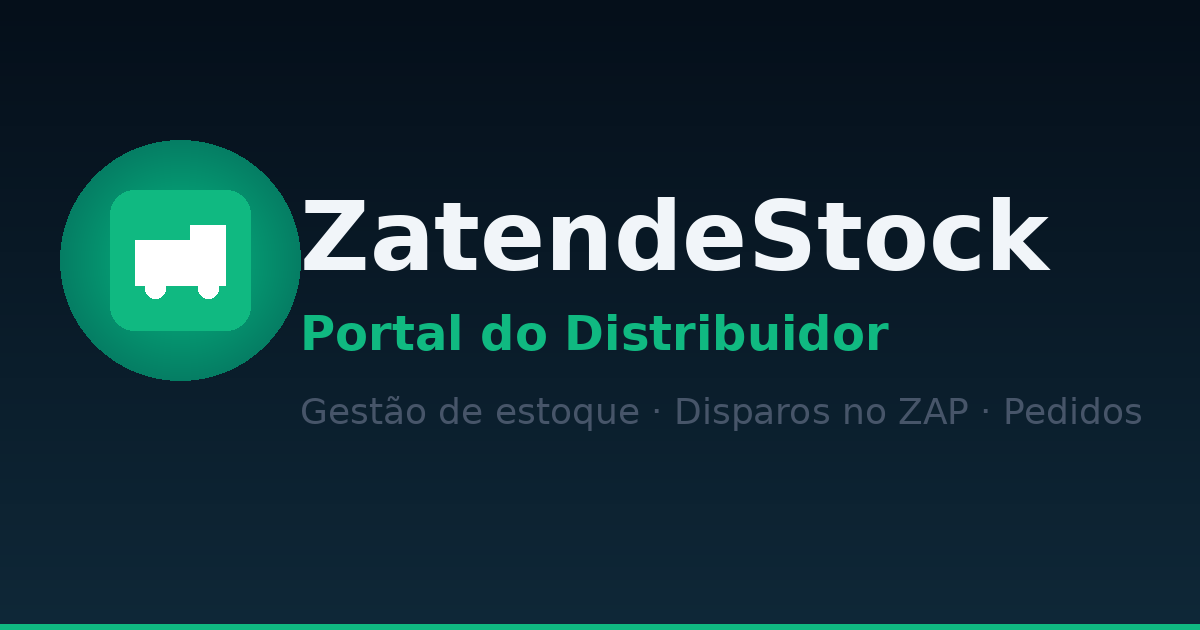
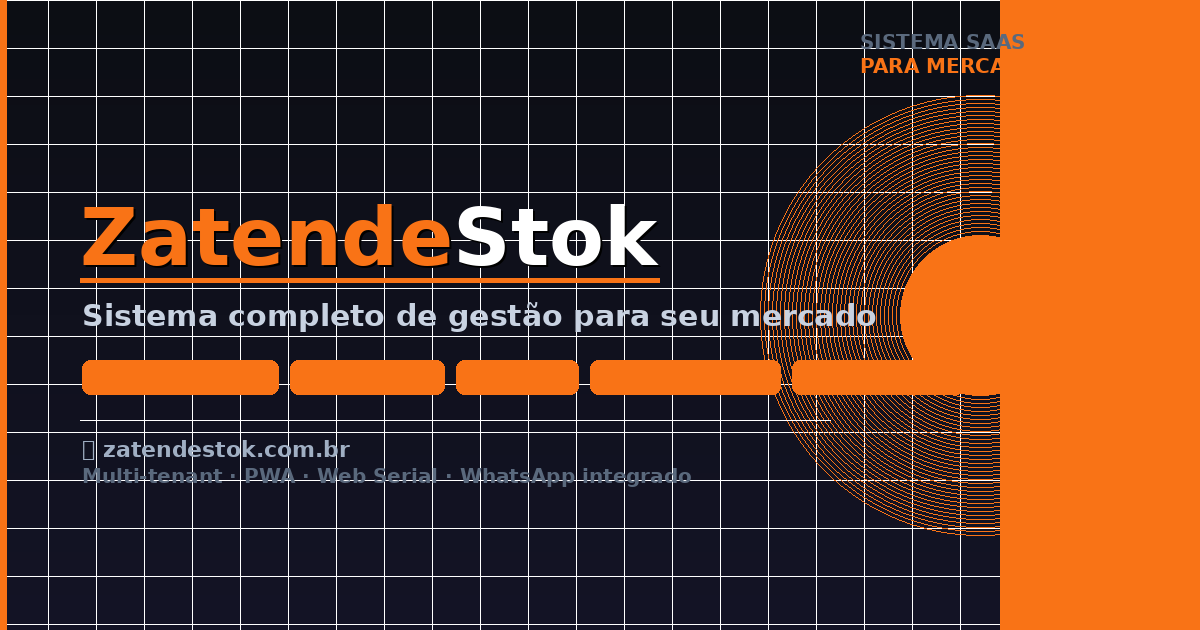
feat: nova arte OG image + meta tags prod (zatendestok.com.br) + URLs netlify→prod + manifest ZatendeStok

diff --git a/src/pages/Guia.jsx b/src/pages/Guia.jsx
@@ -133,14 +133,14 @@ export default function Guia() {
                 Caixa, estoque, validade, promoções e fidelidade — tudo em um só lugar
               </div>
               <div style={{ marginTop: 12, display: 'flex', flexWrap: 'wrap', gap: 8 }}>
-                <Badge color={ORANGE}>🌐 zatendestock.netlify.app/login</Badge>
+                <Badge color={ORANGE}>🌐 zatendestok.com.br/login</Badge>
                 <Badge color="#94a3b8">Usuário: admin · Senha: 1234</Badge>
               </div>
             </div>
 
             <Section title="1. Primeiro Acesso" subtitle="Leva menos de 2 minutos" color={ORANGE}>
               <Step n="1" icon="🌐" title="Abra o link no celular ou PC"
-                desc="Acesse zatendestock.netlify.app. No celular, clique em 'Adicionar à tela inicial' para instalar como app (sem precisar de loja de apps)."
+                desc="Acesse zatendestok.com.br. No celular, clique em 'Adicionar à tela inicial' para instalar como app (sem precisar de loja de apps)."
                 tip="Chrome/Edge no Android: menu ⋮ → 'Adicionar à tela inicial'" />
               <Step n="2" icon="🔐" title='Clique em "Acesso ao sistema"'
                 desc='Na tela inicial, clique no botão 🔐 Acesso ao sistema. Digite usuário e senha. Para a demo: admin / 1234.'
@@ -208,14 +208,14 @@ export default function Guia() {
                 Controle lotes, publique ofertas e gerencie pedidos dos mercados via WhatsApp
               </div>
               <div style={{ marginTop: 12, display: 'flex', flexWrap: 'wrap', gap: 8 }}>
-                <Badge color={GREEN}>🌐 zatendestock.netlify.app/fornecedor</Badge>
+                <Badge color={GREEN}>🌐 zatendestok.com.br/fornecedor</Badge>
                 <Badge color="#94a3b8">Usuário e senha fornecidos pelo administrador</Badge>
               </div>
             </div>
 
             <Section title="1. Primeiro Acesso" subtitle="Configure em 5 minutos" color={GREEN}>
               <Step n="1" icon="🌐" title="Abra o portal do distribuidor"
-                desc="Acesse zatendestock.netlify.app/fornecedor. Instale como app no celular para acessar mais rápido."
+                desc="Acesse zatendestok.com.br/fornecedor. Instale como app no celular para acessar mais rápido."
                 tip="O portal é 100% separado do portal do mercado — tenha os dois abertos em abas diferentes" />
               <Step n="2" icon="🔐" title="Faça login"
                 desc="Use as credenciais fornecidas pelo administrador ZatendeStok. Após o login você vê o dashboard FIFO." />

diff --git a/index.html b/index.html
@@ -5,17 +5,22 @@
     <meta name="viewport" content="width=device-width, initial-scale=1.0, viewport-fit=cover" />
     <meta name="apple-mobile-web-app-status-bar-style" content="black-translucent" />
     <link rel="icon" type="image/svg+xml" href="/icon.svg" />
-    <title>ZatendeStok – Portal do Distribuidor</title>
+    <title>ZatendeStok – Sistema de Gestão para Mercados</title>
 
     <!-- Open Graph / WhatsApp preview -->
     <meta property="og:type"         content="website" />
-    <meta property="og:url"          content="https://zatendestock.netlify.app/" />
-    <meta property="og:title"        content="ZatendeStok – Ofertas do Distribuidor" />
-    <meta property="og:description"  content="Confira as ofertas exclusivas do seu distribuidor e faça pedidos direto pelo celular." />
-    <meta property="og:image"        content="https://zatendestock.netlify.app/og-image.png" />
+    <meta property="og:url"          content="https://zatendestok.com.br/" />
+    <meta property="og:site_name"    content="ZatendeStok" />
+    <meta property="og:title"        content="ZatendeStok – Sistema de Gestão para Mercados" />
+    <meta property="og:description"  content="PDV, estoque, fiado, promoções e etiquetas em um só lugar. Simples, rápido e funciona offline. Experimente grátis." />
+    <meta property="og:image"        content="https://zatendestok.com.br/og-image.png" />
     <meta property="og:image:width"  content="1200" />
     <meta property="og:image:height" content="630" />
+    <meta property="og:image:alt"    content="ZatendeStok – Sistema completo de gestão para mercados" />
     <meta name="twitter:card"        content="summary_large_image" />
+    <meta name="twitter:title"       content="ZatendeStok – Sistema de Gestão para Mercados" />
+    <meta name="twitter:description" content="PDV, estoque, fiado, promoções e etiquetas em um só lugar." />
+    <meta name="description"         content="ZatendeStok: sistema completo de gestão para mercados. PDV, estoque, fiado, promoções, etiquetas. Simples, rápido, funciona offline." />
 
     <!-- PWA: instala como app no Windows/Android/iOS -->
     <link rel="manifest" href="/manifest.json" />

diff --git a/src/pages/Fornecedor.jsx b/src/pages/Fornecedor.jsx
@@ -31,9 +31,9 @@ function ofertasUrl() {
   try {
     const s = JSON.parse(localStorage.getItem('cp_session_v1') || '{}')
     const id = s.id || 'mega'
-    return `https://zatendestock.netlify.app/ofertas?s=${id}`
+    return `https://zatendestok.com.br/ofertas?s=${id}`
   } catch {
-    return 'https://zatendestock.netlify.app/ofertas?s=mega'
+    return 'https://zatendestok.com.br/ofertas?s=mega'
   }
 }
 const OFFERS_KEY  = 'cp_supplier_offers'
@@ -3196,7 +3196,7 @@ function TabSellOut({ orders, markets }) {
         <div style={{ color:'#64748b', fontSize:12, lineHeight:1.6, marginBottom:14 }}>
           Ofereça desconto de 10–15% pra quem adotar. É como a Cimed faz com as farmácias — e vira diferencial competitivo no seu nicho.
         </div>
-        <a href="https://zatendestock.netlify.app/qr.html" target="_blank" rel="noreferrer"
+        <a href="https://zatendestok.com.br/qr.html" target="_blank" rel="noreferrer"
           style={{ display:'inline-flex', alignItems:'center', gap:6, background:'linear-gradient(135deg,#3b82f6,#2563eb)', color:'#fff', borderRadius:12, padding:'10px 18px', fontSize:13, fontWeight:800, textDecoration:'none' }}>
           📱 Ver QR codes para os mercados
         </a>

diff --git a/src/pages/MasterPainel.jsx b/src/pages/MasterPainel.jsx
@@ -304,7 +304,7 @@ function CredSuccess({ title, icon: Icon, iconColor, accentColor, ok, emailResul
         </div>
 
         <div className="bg-gray-900 rounded-xl p-4 space-y-2 font-mono text-sm border border-gray-700 mb-4">
-          <div className="flex justify-between"><span className="text-gray-400">URL</span><span style={{ color: accentColor }}>zatendestock.netlify.app</span></div>
+          <div className="flex justify-between"><span className="text-gray-400">URL</span><span style={{ color: accentColor }}>zatendestok.com.br</span></div>
           <div className="flex justify-between"><span className="text-gray-400">Usuário</span><span className="text-white font-bold">{ok.username}</span></div>
           <div className="flex justify-between"><span className="text-gray-400">Senha</span><span className="text-white font-bold">{ok.password}</span></div>
           {ok.storeId && <div className="flex justify-between"><span className="text-gray-400">Store ID</span><span className="text-green-400">{ok.storeId}</span></div>}

diff --git a/src/pages/Ofertas.jsx b/src/pages/Ofertas.jsx
@@ -1016,7 +1016,7 @@ export default function Ofertas() {
           <div className="bg-gray-900 border border-gray-800 rounded-xl p-4">
             <div className="text-gray-500 text-xs font-bold mb-1">📲 LINK PARA O FORNECEDOR</div>
             <div className="bg-gray-800 rounded-lg px-3 py-2 text-emerald-400 text-xs font-mono">
-              zatendestock.netlify.app/fornecedor
+              zatendestok.com.br/fornecedor
             </div>
             <div className="text-gray-600 text-[11px] mt-2">
               Envie este link para o fornecedor publicar ofertas diretamente pelo celular

diff --git a/public/qr.html b/public/qr.html
@@ -45,7 +45,7 @@
         <div class="label">Login</div>
         <div class="val">megatudo / mega2024</div>
       </div>
-      <div class="url">zatendestock.netlify.app/fornecedor</div>
+      <div class="url">zatendestok.com.br/fornecedor</div>
     </div>
 
     <!-- MERCADO -->
@@ -59,7 +59,7 @@
         <div class="label">Acesso</div>
         <div class="val">Público — Só escanear</div>
       </div>
-      <div class="url">zatendestock.netlify.app/ofertas?s=mega</div>
+      <div class="url">zatendestok.com.br/ofertas?s=mega</div>
     </div>
   </div>
 

diff --git a/public/ap-0825.html b/public/ap-0825.html
@@ -559,7 +559,7 @@
     </div>
 
     <div class="demo-sequence">
-      <div class="demo-title">🖥 Sequência de telas — acessa zatendestock.netlify.app/fornecedor</div>
+      <div class="demo-title">🖥 Sequência de telas — acessa zatendestok.com.br/fornecedor</div>
       <div class="demo-item">
         <div class="demo-num">1</div>
         <div class="demo-text"><strong>Login</strong> — megatudo / mega2024 — mostra que é simples, sem instalação, funciona no celular</div>
